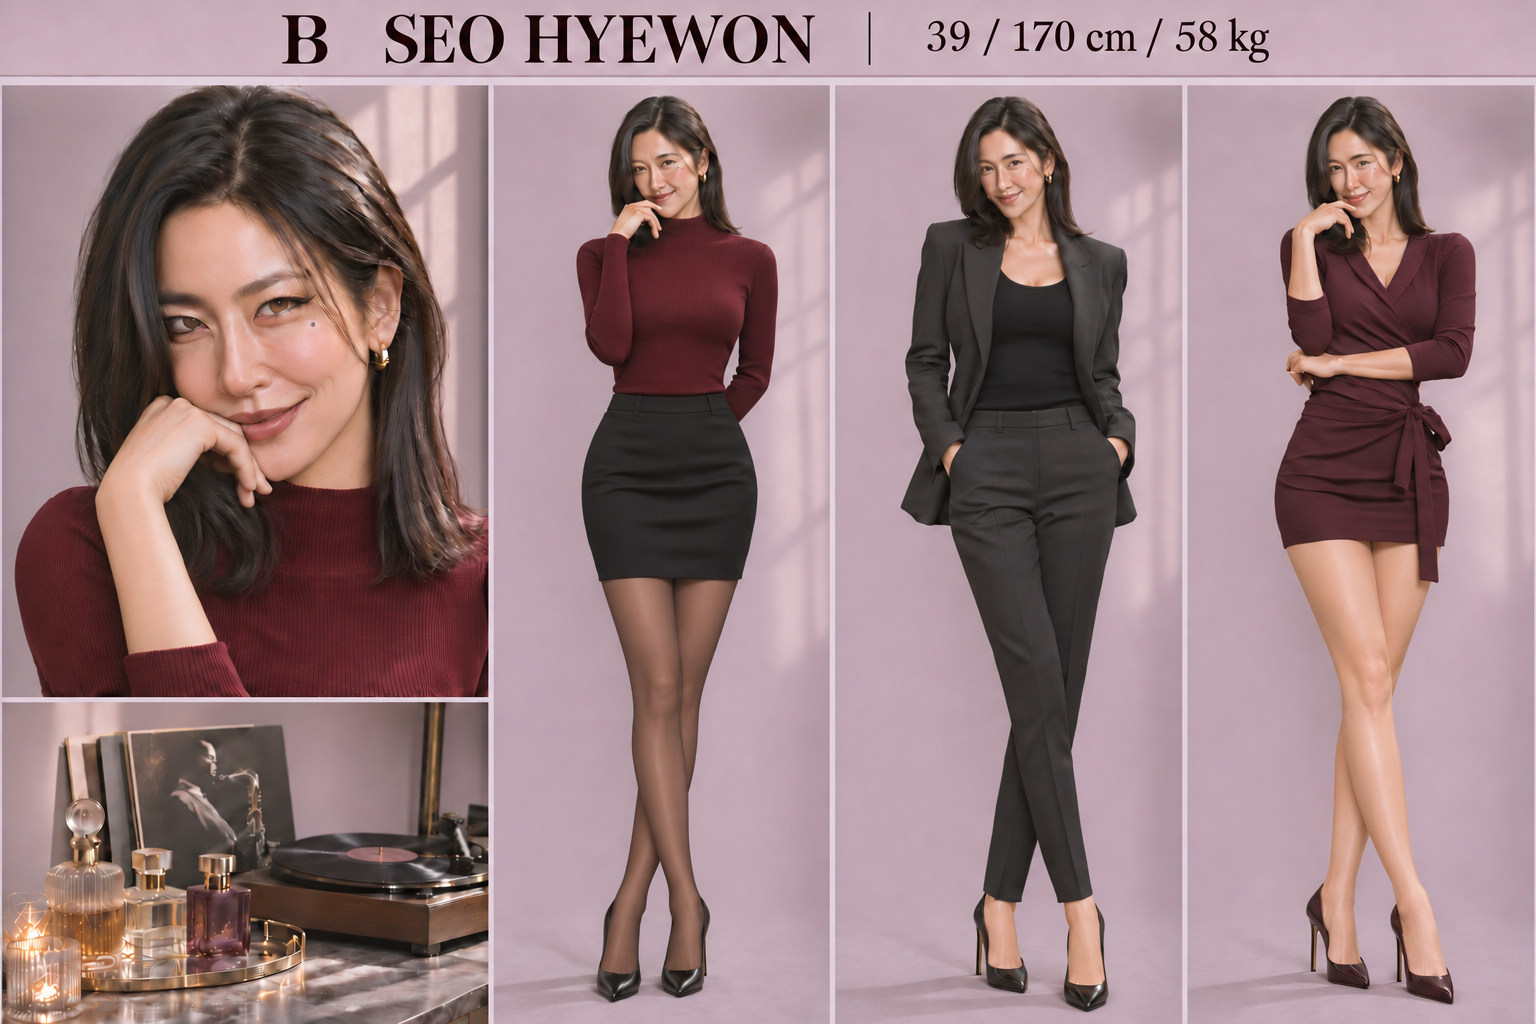
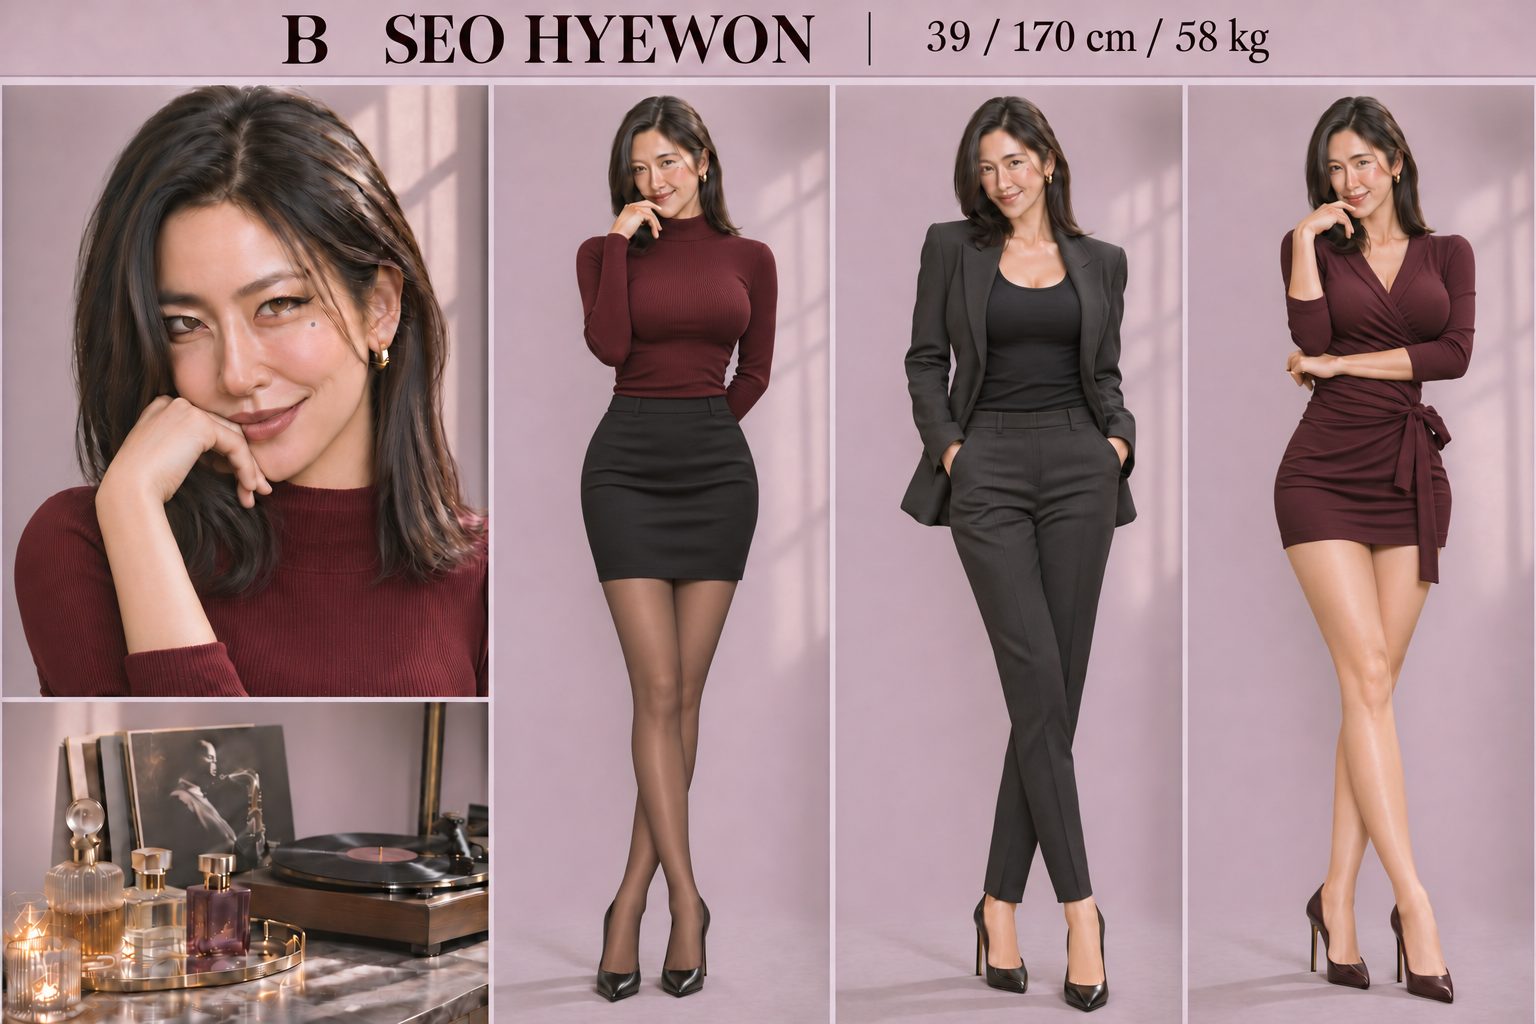
Refine Han Yuna and Seo Hyewon host profiles

diff --git a/shorts.py b/shorts.py
@@ -35,7 +35,8 @@ class Host:
 HOSTS = {
     "A": Host(
         "한유나",
-        "32 years old, 168 cm, 51 kg, slender athletic build, heart-shaped face, bright warm brown almond eyes, "
+        "32 years old, 168 cm, 51 kg, athletic fitness-trainer build with strong glutes and legs, "
+        "heart-shaped face, bright warm brown almond eyes, "
         "fresh peach blush and a natural coral lip, "
         "one subtle cheek dimple, long chestnut-brown loose waves with wispy side fringe, "
         "close-fitting butter-yellow short-sleeve rib knit, high-waisted slim dark indigo jeans, "
@@ -46,7 +47,8 @@ HOSTS = {
     ),
     "B": Host(
         "서혜원",
-        "39 years old, 170 cm, 58 kg, tall long-limbed build, defined oval face, arched brows, sharp dark eyes, "
+        "39 years old, 170 cm, 58 kg, tall long-limbed build with a natural D-cup fit under her knit, "
+        "defined oval face, arched brows, sharp dark eyes, "
         "mole under her left eye, glossy straight shoulder-length black hair with off-center part, "
         "fitted burgundy long-sleeve ribbed turtleneck tucked into the skirt, tailored short above-knee black pencil skirt, "
         "sheer coffee-brown tights, and black pointed pumps",
